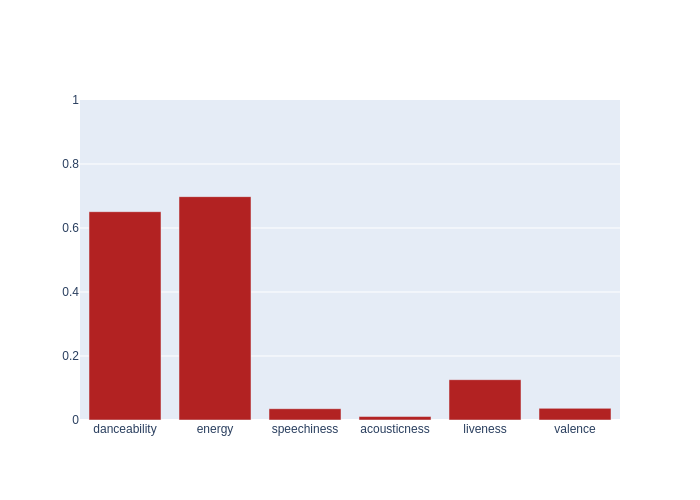
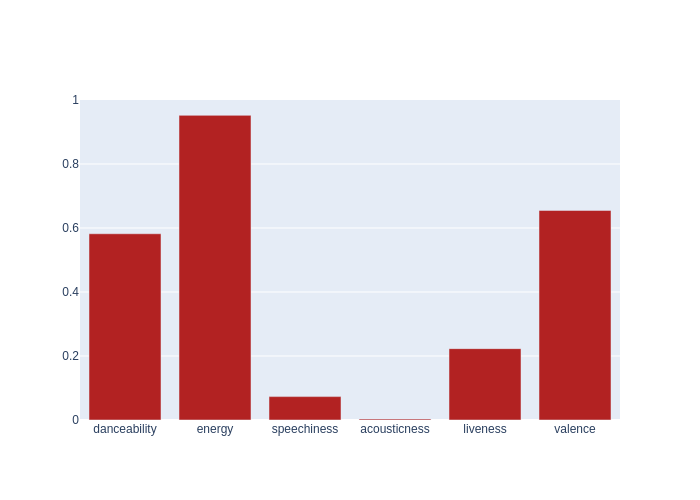
Automated README update

diff --git a/README.md b/README.md
@@ -4,7 +4,7 @@ Automated music metrics for fun, updated hourly.
 
 ## Spotify
 
-- currently listening to **Klangkarussell - Shipwreck**
+- currently listening to **Rascal Flatts - Life is a Highway**
 
 - **923** liked songs
 - **156** playlists
